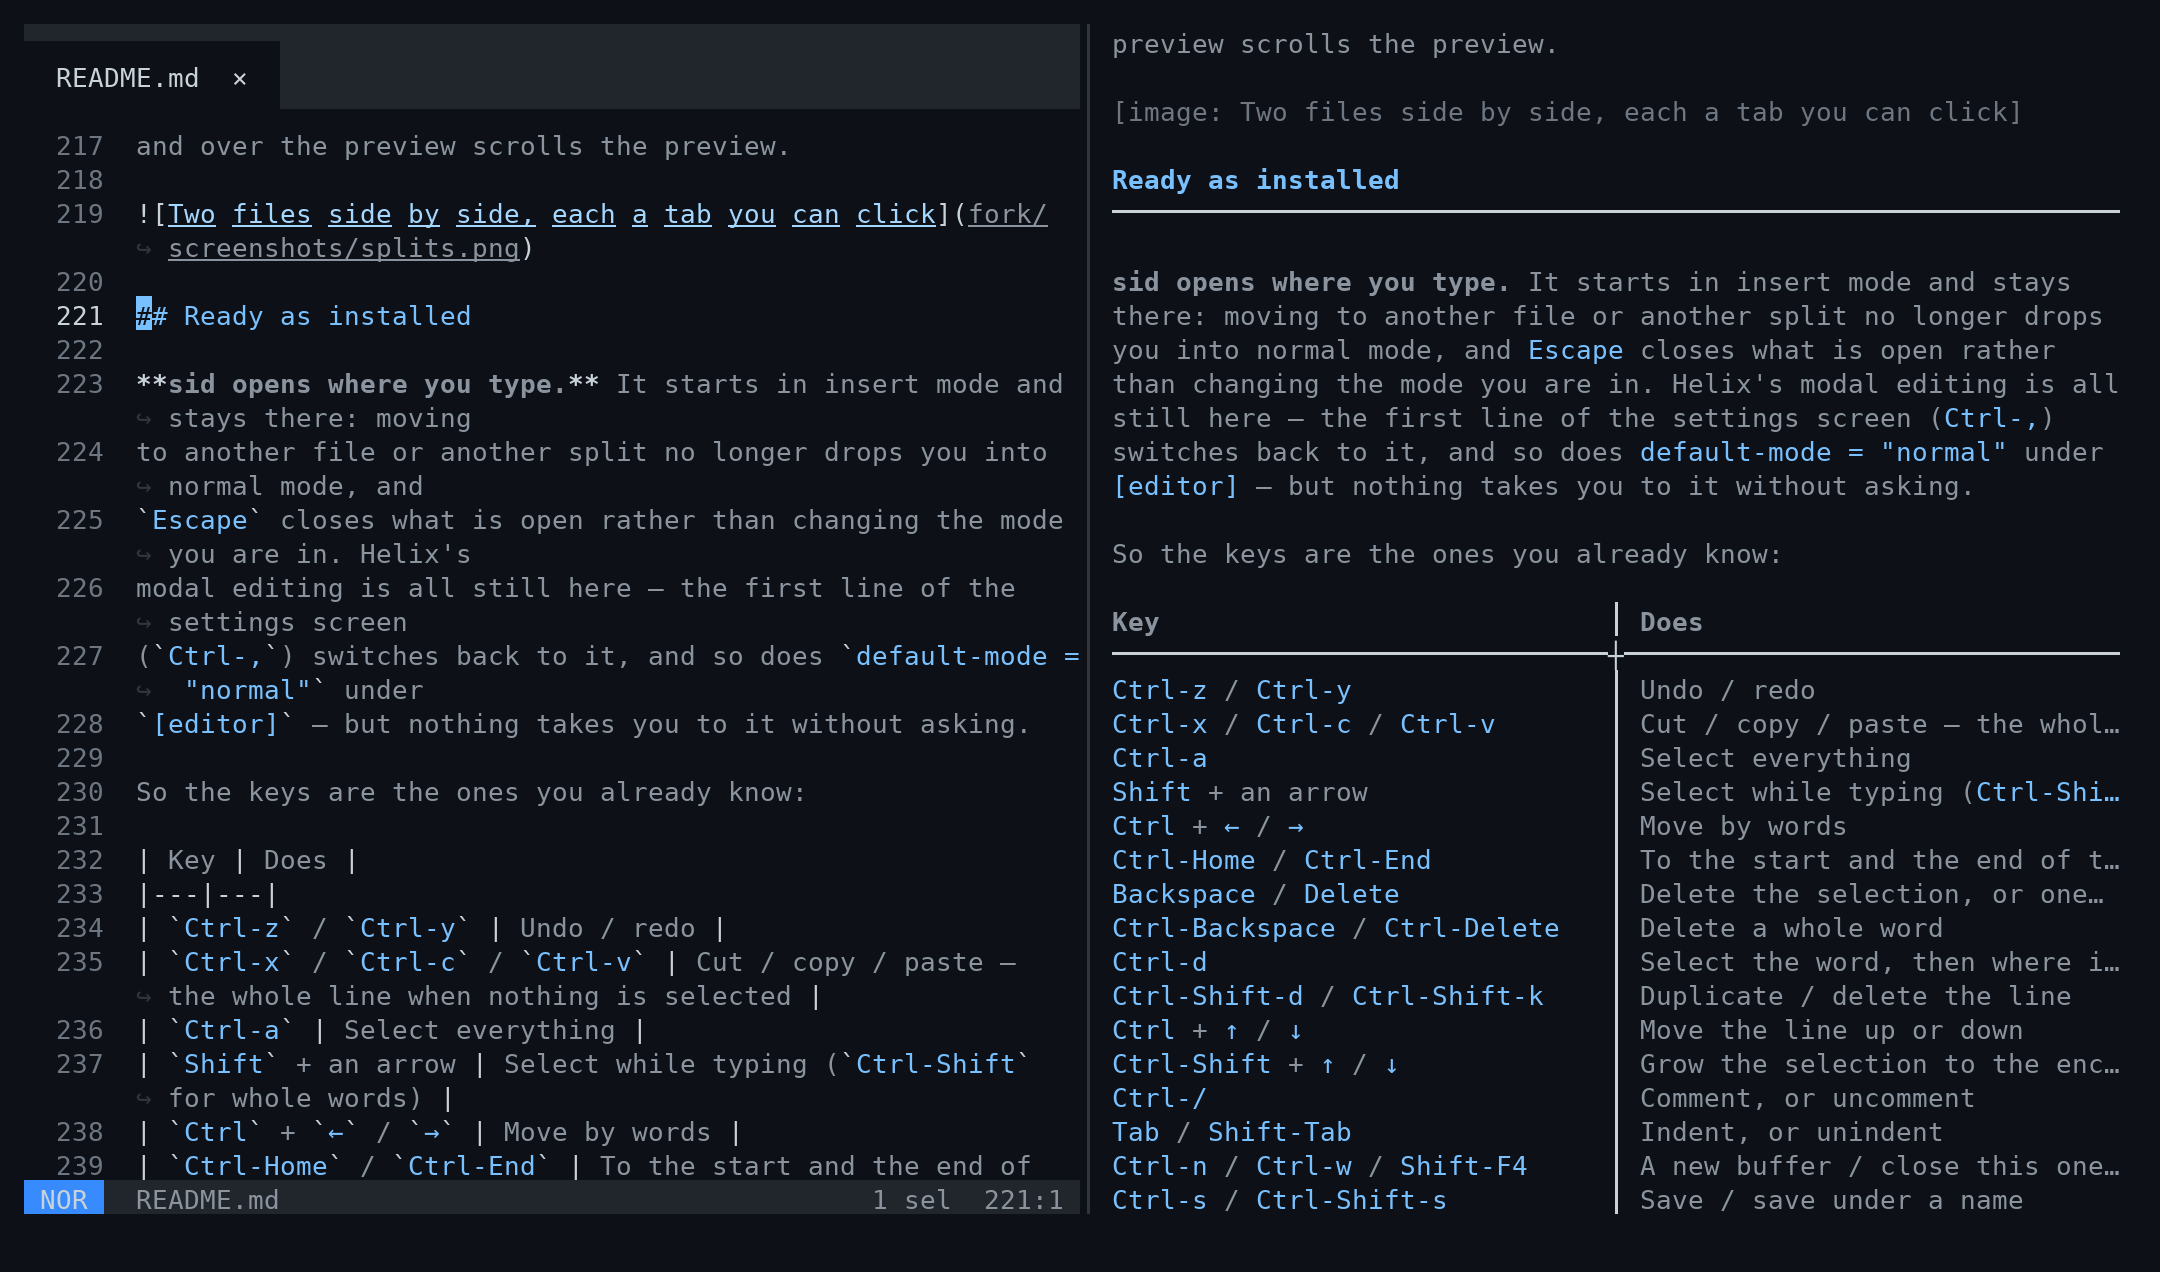
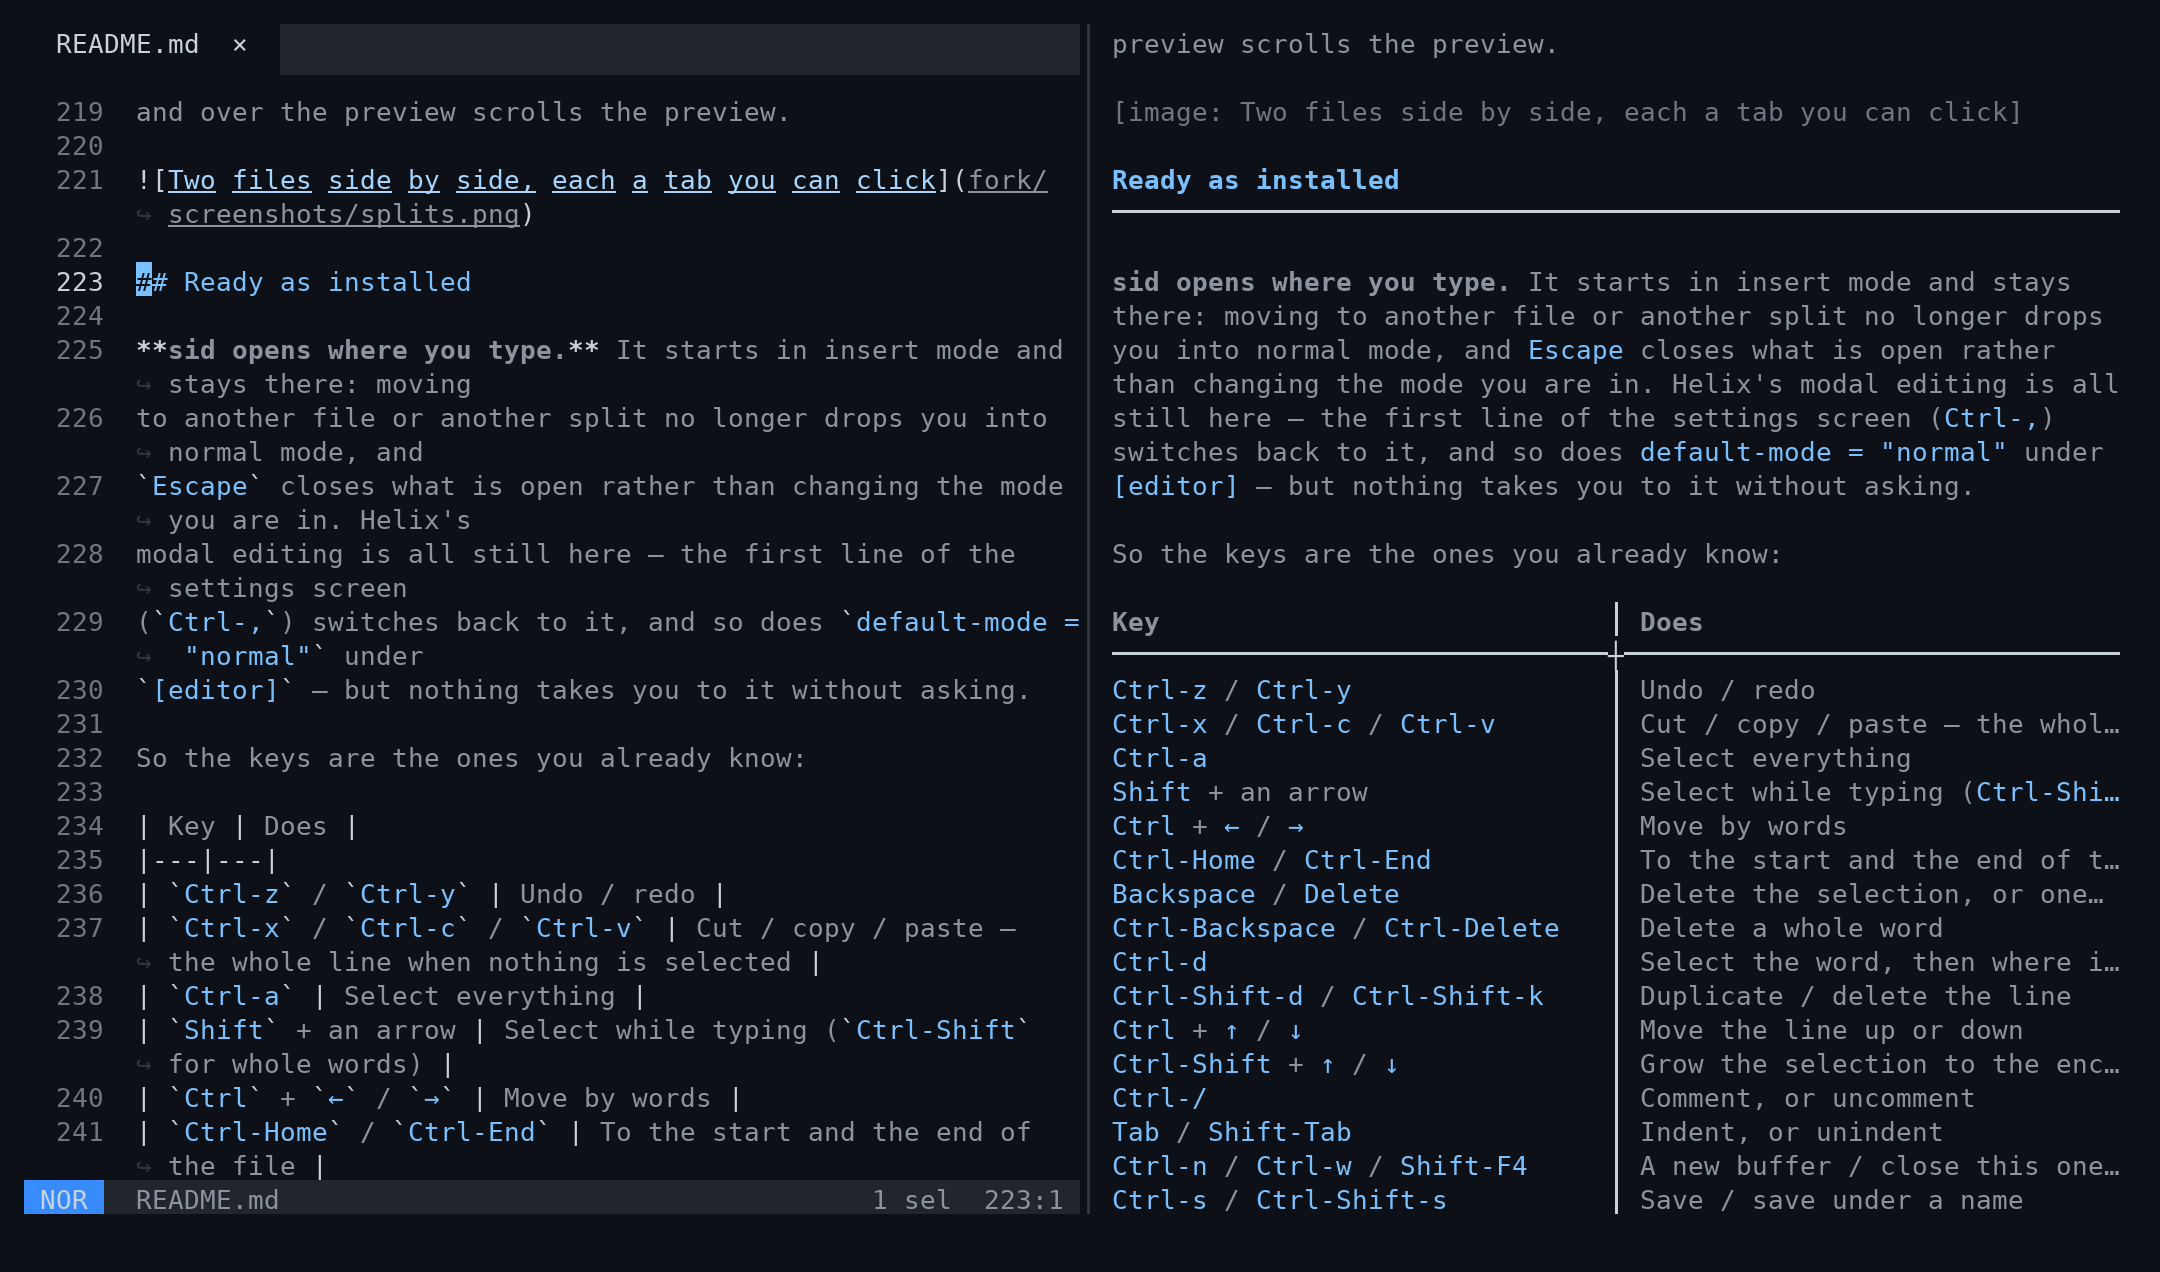
bufferline: two rows, the names on the first
The row of bar above the tabs is gone: the names sit on the sidebar's tab row,
and the tab in front still runs on into the editor underneath.

Changed region(s): [[0.031, 0.0307, 0.4963, 0.7052], [0.031, 0.7052, 0.4653, 0.9198], [0.4343, 0.7972, 0.4653, 0.8585]]

diff --git a/helix-term/src/ui/editor.rs b/helix-term/src/ui/editor.rs
@@ -171,7 +171,7 @@ enum BufferlineHit {
 }
 
 /// The bufferline's rows: a half-row of padding over the names and one under them.
-const BUFFERLINE_HEIGHT: u16 = 3;
+const BUFFERLINE_HEIGHT: u16 = 2;
 
 /// How many lines a click has to land away from the cursor to count as a jump.
 const JUMP_LINES: usize = 10;
@@ -856,9 +856,11 @@ impl EditorView {
             .bg;
         let editor_background = editor.theme.get("ui.background").bg;
 
+        // The names on the first row, and under them the bar ends half-way down, where the tab
+        // in front runs on into the editor.
         let top = viewport.y;
-        let middle = top + 1;
-        let bottom = top + 2;
+        let middle = top;
+        let bottom = top + 1;
 
         // The bar ends half-way down its last row, so it sits on the editor.
         for x in viewport.left()..viewport.right() {
@@ -935,7 +937,6 @@ impl EditorView {
 
             let area = Rect::new(x, top, width, BUFFERLINE_HEIGHT);
             for column in area.left()..area.right() {
-                draw_half_block(surface, column, top, background, tab_background);
                 draw_half_block(surface, column, bottom, tab_background, editor_background);
             }
 
